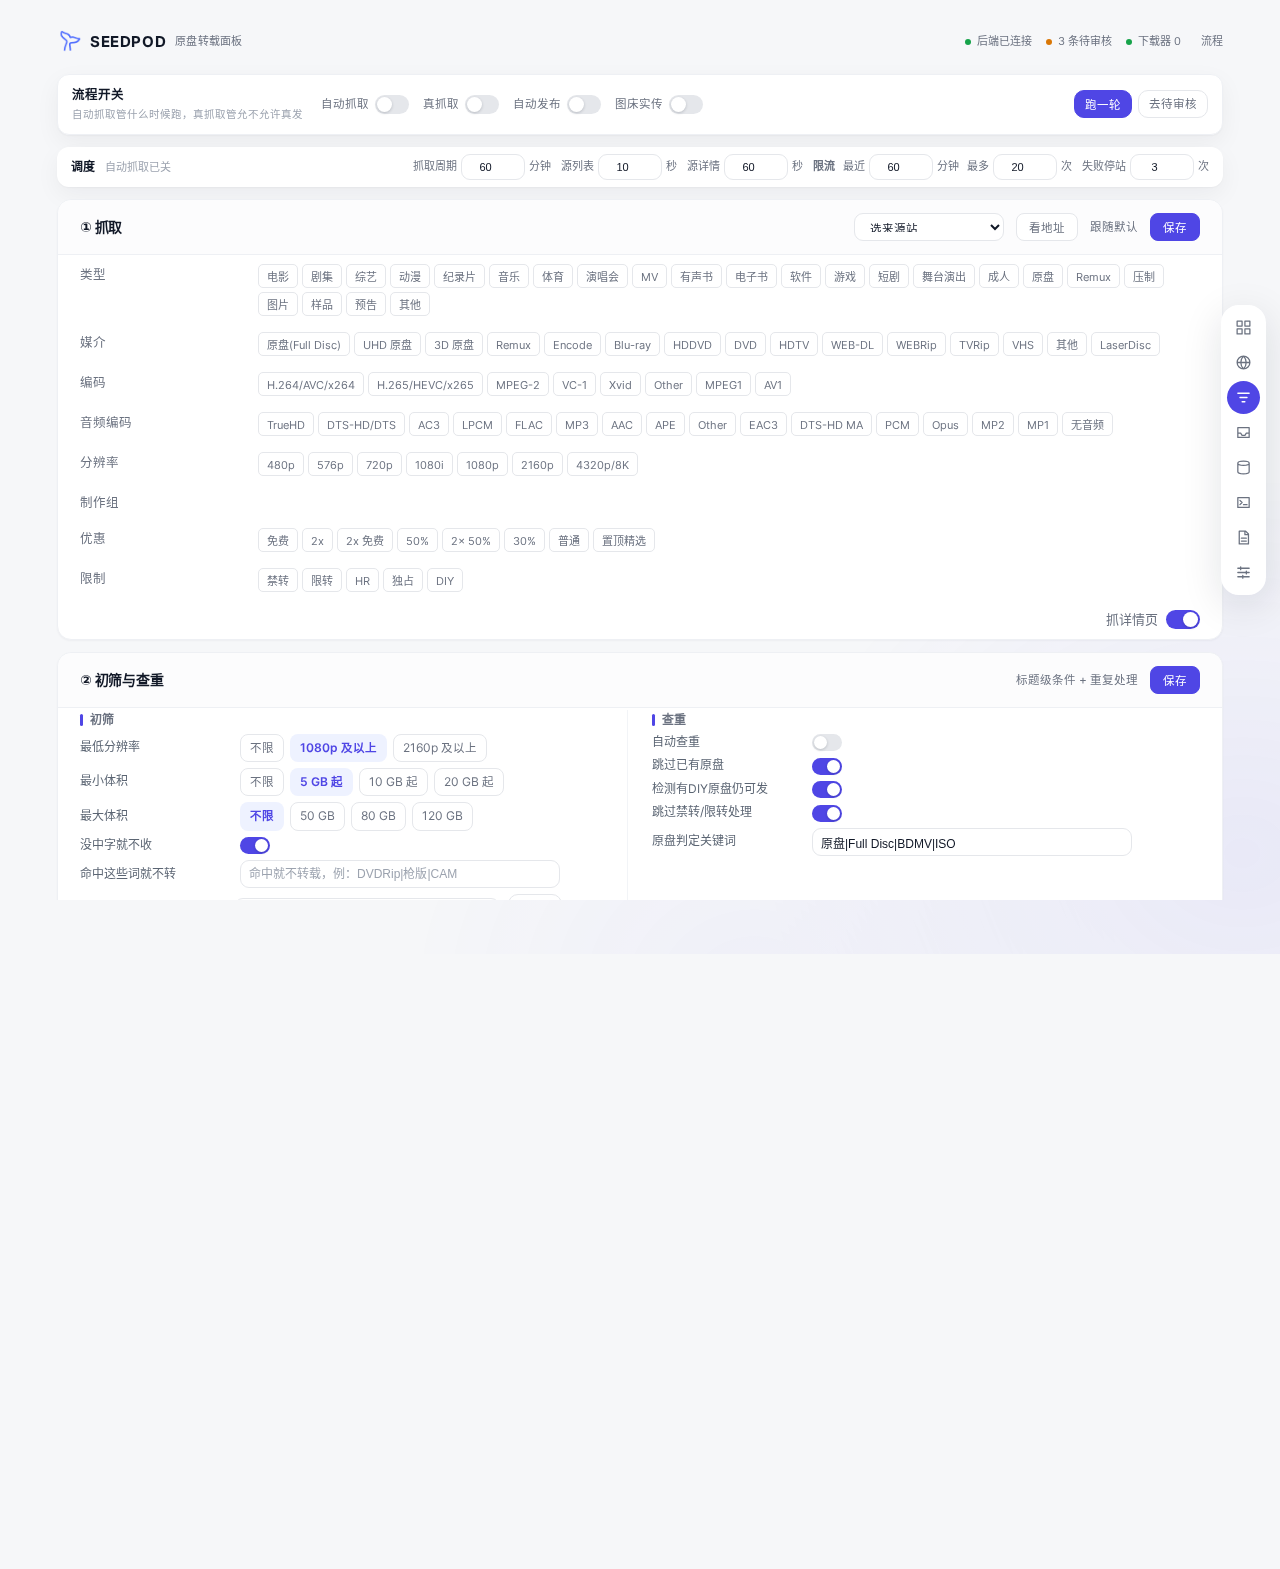
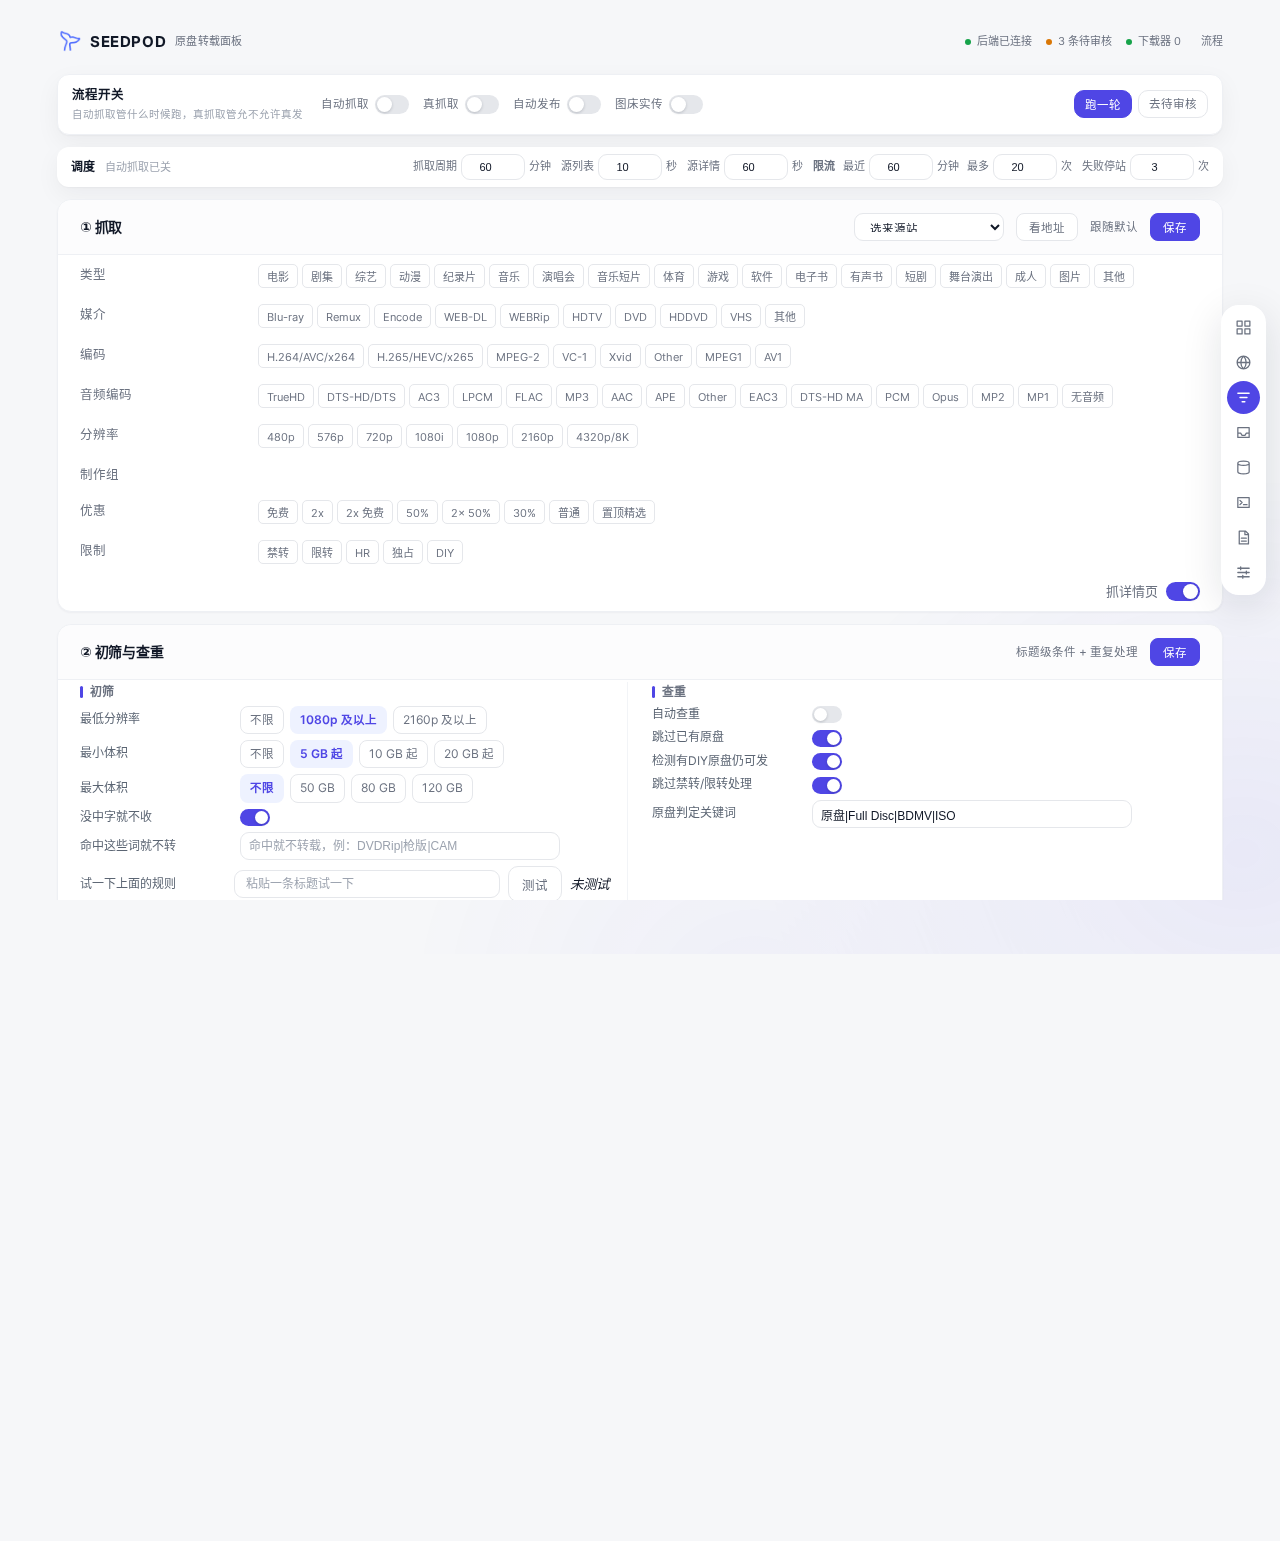
0.7.675 内容类型与媒介拆开

diff --git a/pta/server/checks/presets.js b/pta/server/checks/presets.js
@@ -20,8 +20,8 @@ function read(file) { return JSON.parse(fs.readFileSync(file, 'utf8')); }
   const presets = makePresets();
 
   await check('全局类型覆盖需求清单且 key 唯一', async function () {
-    const want = ['电影', '剧集', '综艺', '动漫', '纪录片', '音乐', '体育', '演唱会', 'MV', '有声书', '电子书',
-      '软件', '游戏', '短剧', '舞台演出', '成人', '原盘', 'Remux', '压制', '图片', '样品', '预告', '其他'];
+    const want = ['电影', '剧集', '综艺', '动漫', '纪录片', '音乐', '演唱会', '音乐短片', '体育', '游戏',
+      '软件', '电子书', '有声书', '短剧', '舞台演出', '成人', '图片', '其他'];
     const got = Object.keys(doc.types || {}).map(function (k) { return doc.types[k]; });
     need(JSON.stringify(got) === JSON.stringify(want), '类型清单不一致：' + JSON.stringify(got));
     const keys = Object.keys(doc.types || {});
@@ -31,11 +31,11 @@ function read(file) { return JSON.parse(fs.readFileSync(file, 'utf8')); }
 
   await check('搜索维度齐全：媒介/分辨率/优惠/限制', async function () {
     const s = doc.search || {};
-    need(Object.keys(s.medium || {}).length === 15, '媒介数量不对');
+    need(Object.keys(s.medium || {}).length === 10, '媒介数量不对');
     need(Object.keys(s.resolution || {}).length === 7, '分辨率数量不对');
     need(Object.keys(s.discount || {}).length === 8, '优惠数量不对');
     need(Object.keys(s.restriction || {}).length === 5, '限制数量不对');
-    need(s.medium.full_disc === '原盘(Full Disc)', '媒介缺少原盘');
+    need(s.medium.bluray === 'Blu-ray', '媒介缺少 Blu-ray');
     need(s.resolution['4320p'] === '4320p/8K', '分辨率缺少 4320p/8K');
     need(s.discount['2x_free'] === '2x 免费', '优惠缺少 2x 免费');
     need(s.restriction.hr === 'HR', '限制缺少 HR');

diff --git a/pta/server/scripts/migrate-site-types.js b/pta/server/scripts/migrate-site-types.js
@@ -1,0 +1,37 @@
+#!/usr/bin/env node
+/* 一次性迁移：旧内容类型里的原盘/Remux/压制/样品/预告归到 other；
+   旧媒介 full_disc/uhd/3d 归到 bluray 大分类。默认干跑，--write 才写。
+   不打印站名/网址/cookie。 */
+const fs = require('fs');
+const path = require('path');
+const jsonFile = require('../src/infra/json-file');
+const makeStore = require('../src/features/sites/store');
+const { formatSitesDoc } = require('../src/features/sites/format');
+
+const ROOT = path.resolve(__dirname, '..', '..');
+const argv = process.argv.slice(2);
+function arg(name, def) {
+  const i = argv.indexOf(name);
+  return i >= 0 && argv[i + 1] ? argv[i + 1] : def;
+}
+const DATA = path.resolve(arg('--data', require('../src/infra/env').read('DATA_DIR', 'PTA_DATA') || path.join(ROOT, '..', 'data')));
+const WRITE = argv.includes('--write');
+const store = makeStore(DATA);
+store.ensureRuntime();
+const raw = JSON.parse(fs.readFileSync(store.FILE, 'utf8'));
+const sites = raw.sites && typeof raw.sites === 'object' ? raw.sites : {};
+const out = {};
+let changed = 0;
+Object.keys(sites).forEach(function (h) {
+  const before = JSON.stringify(sites[h]);
+  const rec = store.normalizeRecord(store.fromPersisted(sites[h], h));
+  const next = store.toPersisted(rec, h);
+  if (JSON.stringify(next) !== before) changed++;
+  out[h] = next;
+});
+const summary = { sites: Object.keys(sites).length, changed: changed, write: WRITE };
+console.log(JSON.stringify(summary, null, 2));
+if (!WRITE) return;
+try { if (fs.existsSync(store.FILE)) fs.copyFileSync(store.FILE, store.FILE + '.bak'); } catch (e) { /* 备份失败不挡写入 */ }
+jsonFile.writeAtomicText(store.FILE, formatSitesDoc({ version: raw.version || 1, presets: raw.presets, generatedAt: raw.generatedAt, sites: out }), 0o600);
+console.log('已写入 ' + store.FILE);

diff --git a/pta/server/checks/site-store.js b/pta/server/checks/site-store.js
@@ -70,6 +70,23 @@ function need(c, m) { if (!c) throw new Error(m); }
       need(text === formatSitesDoc(doc), 'sites.json 不是块状格式');
     });
 
+    await check('旧内容类型/媒介归到新大分类', async function () {
+      const rec = store.normalizeRecord({
+        name: 'Legacy', engine: 'nexusphp',
+        search: {
+          path: '/t',
+          cats: { full_disc: ['401'], remux: ['402'], sample: ['403'] },
+          filters: { values: { medium: { full_disc: '1', uhd_full_disc: '1' } }, params: { medium: { full_disc: 'medium11', uhd_full_disc: 'medium12' } } }
+        },
+        publish: { catMap: { encode: '404' } }
+      });
+      need(rec.search.cats.other && rec.search.cats.other.indexOf('401') >= 0 && rec.search.cats.other.indexOf('403') >= 0, '旧类型没归到 other：' + JSON.stringify(rec.search.cats));
+      need(!rec.search.cats.full_disc && !rec.search.cats.remux, '旧类型 key 还在：' + JSON.stringify(rec.search.cats));
+      need(rec.publish.catMap.other === '404', '旧发布类型没归到 other：' + JSON.stringify(rec.publish.catMap));
+      const p = store.toPersisted(rec, 'legacy.example');
+      need(p.search.medium.bluray && p.search.medium.bluray.length === 2, '媒介没归到 bluray：' + JSON.stringify(p.search.medium));
+    });
+
     await check('制作组过滤条件保存不丢', async function () {
       const cur = store.get('site-a.example');
       const search = Object.assign({}, cur.search, {

diff --git a/pta/server/src/features/sites/store.js b/pta/server/src/features/sites/store.js
@@ -429,11 +429,13 @@ function makeSiteStore(dataDir, opts) {
     return { base: unb64(u.base), upload: unb64(u.upload), verify: unb64(u.verify) };
   }
   /* 站点只存 key；中文名由全局预设补，读的时候派生 types 给现有流程用 */
+  const TYPE_MOVE = { full_disc: 'other', remux: 'other', encode: 'other', sample: 'other', trailer: 'other' };
+  function typeKey(k) { const key = presets.keyOf(k) || String(k); return TYPE_MOVE[key] || key; }
   function canonCats(cats) {
     const out = {};
     if (!cats || typeof cats !== 'object' || Array.isArray(cats)) return out;
     Object.keys(cats).forEach(function (k) {
-      const key = presets.keyOf(k) || String(k);
+      const key = typeKey(k);
       const list = Array.isArray(cats[k]) ? cats[k] : (cats[k] == null ? [] : [cats[k]]);
       list.forEach(function (id) {
         if (id == null || id === '') return;
@@ -455,7 +457,7 @@ function makeSiteStore(dataDir, opts) {
     });
     Object.keys(map).forEach(function (k) {
       if (map[k] == null || map[k] === '') return;
-      const key = presets.keyOf(k) || String(k);
+      const key = typeKey(k);
       if (out[key] == null) out[key] = String(map[k]);
     });
     return out;

diff --git a/pta/server/checks/search-preset.js b/pta/server/checks/search-preset.js
@@ -2,7 +2,7 @@
 const fs = require('fs');
 const path = require('path');
 const makePresets = require('../src/features/presets/store');
-const { parseSearchPreset, dimOf, isCatField } = require('../src/features/sites/search-preset');
+const { parseSearchPreset, dimOf, isCatField, mapType } = require('../src/features/sites/search-preset');
 const { buildSiteSearchUrl } = require('../src/features/sites/search-url');
 
 const presets = makePresets();
@@ -19,6 +19,11 @@ check('分类 ID 和分类模式能识别', function () {
   need(Array.isArray(r.cats.movie) && r.cats.movie.indexOf('401') >= 0 && r.cats.movie.indexOf('405') >= 0, '电影分类不对：' + JSON.stringify(r.cats));
   need(Array.isArray(r.cats.tv) && r.cats.tv[0] === '406', '剧集分类不对：' + JSON.stringify(r.cats));
   need(r.catMode === 'key', '分类模式应为 key：' + r.catMode);
+});
+
+check('原盘/Remux 不再当内容类型', function () {
+  need(mapType('原盘', presets) === '', '原盘不该是内容类型：' + mapType('原盘', presets));
+  need(mapType('Remux', presets) === '', 'Remux 不该是内容类型：' + mapType('Remux', presets));
 });
 
 check('Unit3D checkbox 分类能识别', function () {

diff --git a/pta/web/src/composables/useCrawlFetchFilters.js b/pta/web/src/composables/useCrawlFetchFilters.js
@@ -25,7 +25,7 @@ async function loadFilters() {
   const vals = (j && j.ok && j.data && j.data.filters && j.data.filters.values) || {}
   const rows = (rules.fetch[0] && rules.fetch[0].rows) || []
   const byName = { '媒介': 'medium', '编码': 'codec', '音频编码': 'audio', '分辨率': 'resolution', '制作组': 'team', '优惠': 'discount' }
-  const MEDIA_MERGE = ['原盘(Full Disc)', 'UHD 原盘', '3D 原盘', 'Blu-ray']
+  const MEDIA_MERGE = ['原盘(Full Disc)', 'UHD 原盘', '3D 原盘', 'Blu-ray', 'full_disc', 'uhd_full_disc', '3d_full_disc', 'bluray']
   Object.keys(byName).forEach(name => {
     const r = rows.find(x => x.t === name)
     if (!r) return

diff --git a/pta/server/src/features/presets/store.js b/pta/server/src/features/presets/store.js
@@ -38,6 +38,7 @@ const ALIAS = {
 
 const DIM_ALIAS = {
   medium: {
+    full_disc: 'full_disc', uhd_full_disc: 'uhd_full_disc', '3d_full_disc': '3d_full_disc', laserdisc: 'laserdisc', tvrip: 'tvrip',
     '原盘': 'full_disc', 'full disc': 'full_disc', fulldisc: 'full_disc', bdmv: 'full_disc', iso: 'full_disc',
     uhd: 'uhd_full_disc', 'uhd原盘': 'uhd_full_disc', '4k原盘': 'uhd_full_disc', 'blu-rayuhd': 'uhd_full_disc', blurayuhd: 'uhd_full_disc', '4kuhd': 'uhd_full_disc',
     '3d': '3d_full_disc', '3d原盘': '3d_full_disc',

diff --git a/pta/server/src/features/sites/search-preset.js b/pta/server/src/features/sites/search-preset.js
@@ -83,7 +83,8 @@ function mapType(label, presets) {
   /* Unit3D 的单独 “TV Shows” 是剧集；带中文“综艺”的仍按综艺走 */
   if (/^tv\s*shows?$/i.test(String(label || '').trim())) return presets.keyOf('剧集') || 'tv';
   const t = typeOf(label);
-  return presets.keyOf(t) || presets.keyOf(label) || '';
+  const key = presets.keyOf(t) || presets.keyOf(label) || '';
+  return key && presets.types()[key] ? key : '';
 }
 function mapDim(dim, label, presets) {
   const k = presets.keyOfDim(dim, label);

diff --git a/pta/server/src/features/crawl/category.js b/pta/server/src/features/crawl/category.js
@@ -21,9 +21,6 @@ const TYPE_RULES = [
   ['图片', /图片|picture|image|photo/i],
   ['样品', /样品|sample/i],
   ['预告', /预告|trailer/i],
-  ['原盘', /原盘|full\s*disc|bdmv/i],
-  ['Remux', /remux/i],
-  ['压制', /压制|encode/i],
   ['其他', /其他|其它|other|misc/i]
 ];
 

diff --git a/pta/docs/SITE-JSON.md b/pta/docs/SITE-JSON.md
@@ -52,13 +52,13 @@ settings  一行
       "meta": { "name": "Site A", "nameZh": "", "engine": "nexusphp", "urlRef": "site-urls.json#site-a.example" },
       "search": {
         "path": "/torrents.php", "params": { "search": "{q}", "cat": "{cats}" }, "catMode": "key", "catSlot": "1",
-        "type": { "movie": ["401"] }, "medium": { "full_disc": ["bluray = medium1 = 1", "uhd_full_disc = medium12 = 1"] },
+        "type": { "movie": ["401"] }, "medium": { "bluray": ["bluray = medium1 = 1", "uhd_full_disc = medium12 = 1"] },
         "resolution": { "1080p": "standard = 1" }, "discount": { "free": "spstate = 2" }, "restriction": {},
-        "selected": { "medium": ["full_disc"], "discount": ["free"] }, "limits": {}, "downloadLink": "", "refreshCron": ""
+        "selected": { "medium": ["bluray"], "discount": ["free"] }, "limits": {}, "downloadLink": "", "refreshCron": ""
       },
       "publish": {
         "upload": { "path": "/takeupload.php", "formPath": "/upload.php", "fileField": "torrent", "fields": {} }, "verify": { "path": "/torrents.php?search={title}" },
-        "type": { "movie": "402", "tv": "403" }, "medium": { "full_disc": "1" },
+        "type": { "movie": "402", "tv": "403" }, "medium": { "bluray": "1" },
         "resolution": {}, "discount": {}, "restriction": {},
         "tagMap": {}, "tagValue": "yes", "form": null, "valueMaps": {}
       },
@@ -73,11 +73,19 @@ settings  一行
 ```text
 meta.name             站点显示名
 search.type.movie     搜索页电影分类 ID = 401
-search.medium         原盘 = Blu-ray(medium1=1) + Blu-rayUHD(medium12=1)
-search.selected       流程页勾了原盘和免费
+search.medium.bluray  Blu-ray = 原盘/Blu-ray(medium1=1) + Blu-rayUHD(medium12=1)
+search.selected       流程页勾了 Blu-ray 和免费
 publish.type.movie    上传页电影分类 ID = 402
 settings.enabled      本机是否启用
 ```
+
+## 大分类
+
+内容类型只留 18 个：`movie / tv / variety / anime / documentary / music / concert / mv / sports / game / software / ebook / audiobook / short / stage / adult / image / other`。
+
+媒介只留 10 个：`bluray / remux / encode / webdl / webrip / hdtv / dvd / hddvd / vhs / other`。`full_disc`、`uhd_full_disc`、`3d_full_disc` 是 `bluray` 组里的站点子项，不再作为独立大分类显示。
+
+旧站点里的内容类型 `full_disc / remux / encode / sample / trailer` 会自动归到 `other`；旧媒介 `full_disc / uhd_full_disc / 3d_full_disc` 会归到 `bluray` 组。
 
 ## 字段
 
@@ -123,7 +131,7 @@ medium:       "bluray = medium1 = 1"        子项 = 参数名 = 值
 - `medium` 的 `bluray`、`uhd_full_disc` 是站点子项，`medium1`、`medium12` 是该子项的参数名。
 - 一个维度有多个参数时写成数组：
   ```json
-  "medium": { "full_disc": ["bluray = medium1 = 1", "uhd_full_disc = medium12 = 1"] }
+  "medium": { "bluray": ["bluray = medium1 = 1", "uhd_full_disc = medium12 = 1"] }
   ```
 - UI 的“Blu-ray”大分类 = 原盘(Full Disc) / UHD 原盘 / 3D 原盘 / Blu-ray；站点只有 Blu-ray 时就用它，有 Blu-rayUHD/3D 时一并带上。
 - Gazelle 的 `media` / `codec` / `audioformat` / `resolution` 下拉会映射到媒介/编码/音频/分辨率；`media=BluRay` 归到 Blu-ray 组。
@@ -150,13 +158,13 @@ baseValueMaps 站点包自带的值映射
 发布维度用大分类 key，不用站点小 key：
 
 ```json
-"medium": { "full_disc": "1" }
+"medium": { "bluray": "1" }
 ```
 
 有多个子项时：
 
 ```json
-"medium": { "full_disc": ["bluray = 1", "uhd_full_disc = 12"] }
+"medium": { "bluray": ["bluray = 1", "uhd_full_disc = 12"] }
 ```
 
 ### settings

diff --git a/pta/docs/DECISIONS.md b/pta/docs/DECISIONS.md
@@ -230,3 +230,12 @@
 定了：凭据列表 `/api/credentials` 仍只回 `hasCookie`；单站详情 `GET /api/credentials/:host` 返回明文，面板打开站点时回显；接口需登录、`Cache-Control: no-store`、不写日志。
 为什么：用户明确要求像 Vertex 一样保存后可见，接受登录后的 XSS/浏览器扩展/截图风险。
 代价：会话被拿到或页面被注入时，攻击者可直接读站点 cookie；面板安全边界从“只写”降为“可读”。
+
+## 2026-11-24 内容类型与媒介拆开
+
+定了：内容类型只留 18 个（电影/剧集/综艺/动漫/纪录片/音乐/演唱会/音乐短片/体育/游戏/软件/电子书/有声书/短剧/舞台/成人/图片/其他）；媒介只留 10 个（Blu-ray/Remux/Encode/WEB-DL/WEBRip/HDTV/DVD/HDDVD/VHS/其他）。
+- 原盘(Full Disc)、UHD 原盘、3D 原盘、Blu-ray 统一由 `groups.medium.bluray` 覆盖，UI 只显示一个 Blu-ray。
+- 旧内容类型 `full_disc/remux/encode/sample/trailer` → `other`；旧媒介 `full_disc/uhd_full_disc/3d_full_disc` → `bluray` 组。
+
+为什么：站点把“原盘/Remux/压制”当分类名，和内容类型混在一起，抓取和勾选都会串；拆开后内容类型只管题材，媒介只管片源。
+代价：旧站点里这些分类会并到 `other`，需要人工确认一次；站点只有 Blu-ray 时用 Blu-ray 大分类，不再单列 UHD/3D。

diff --git a/HANDOFF.md b/HANDOFF.md
@@ -1,6 +1,13 @@
 # HANDOFF · SEEDPOD 面板
 
-最后更新：2026-11-24 17:10（当前 v0.7.674 / 52PT 分类与 cookie 回显；开发清单见 `pta/docs/ROADMAP.md` 顶部）
+最后更新：2026-11-24 19:30（当前 v0.7.675 / 内容类型与媒介拆开；开发清单见 `pta/docs/ROADMAP.md` 顶部）
+
+## 2026-11-24 内容类型与媒介拆开（v0.7.675）
+
+- 内容类型只留 18 个；Remux/Encode/原盘/样品/预告不再当内容类型。
+- 媒介只留 10 个；原盘/UHD/3D 统一由 `groups.medium.bluray` 覆盖，UI 只显示 Blu-ray。
+- 旧类型归 `other`，旧媒介归 `bluray`；生产 `sites.json` 已无旧 key，pack 已重新生成。
+- 全量 `run.sh` 通过。
 
 ## 2026-11-24 52PT 分类与 cookie 回显（v0.7.674）
 
